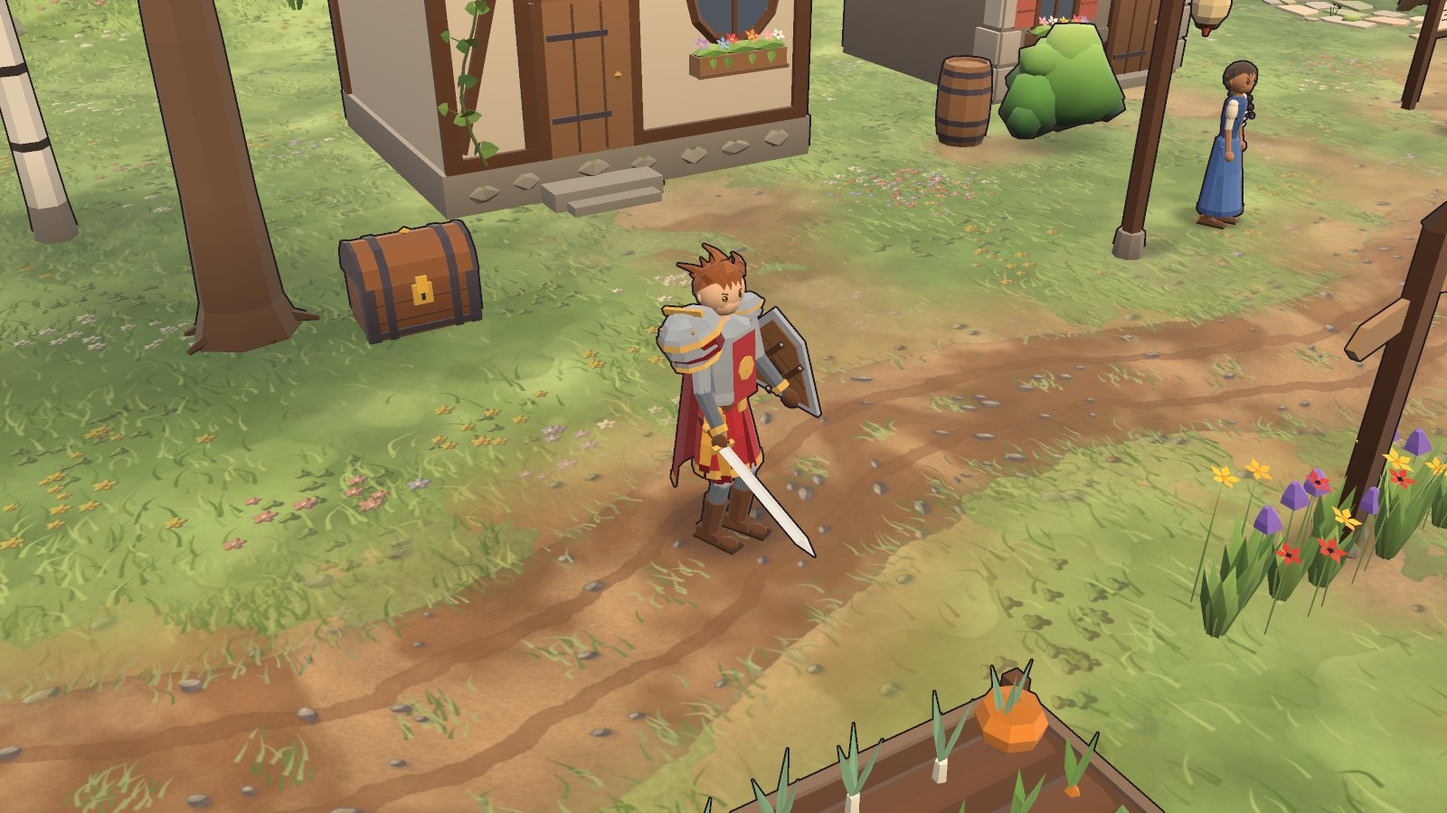
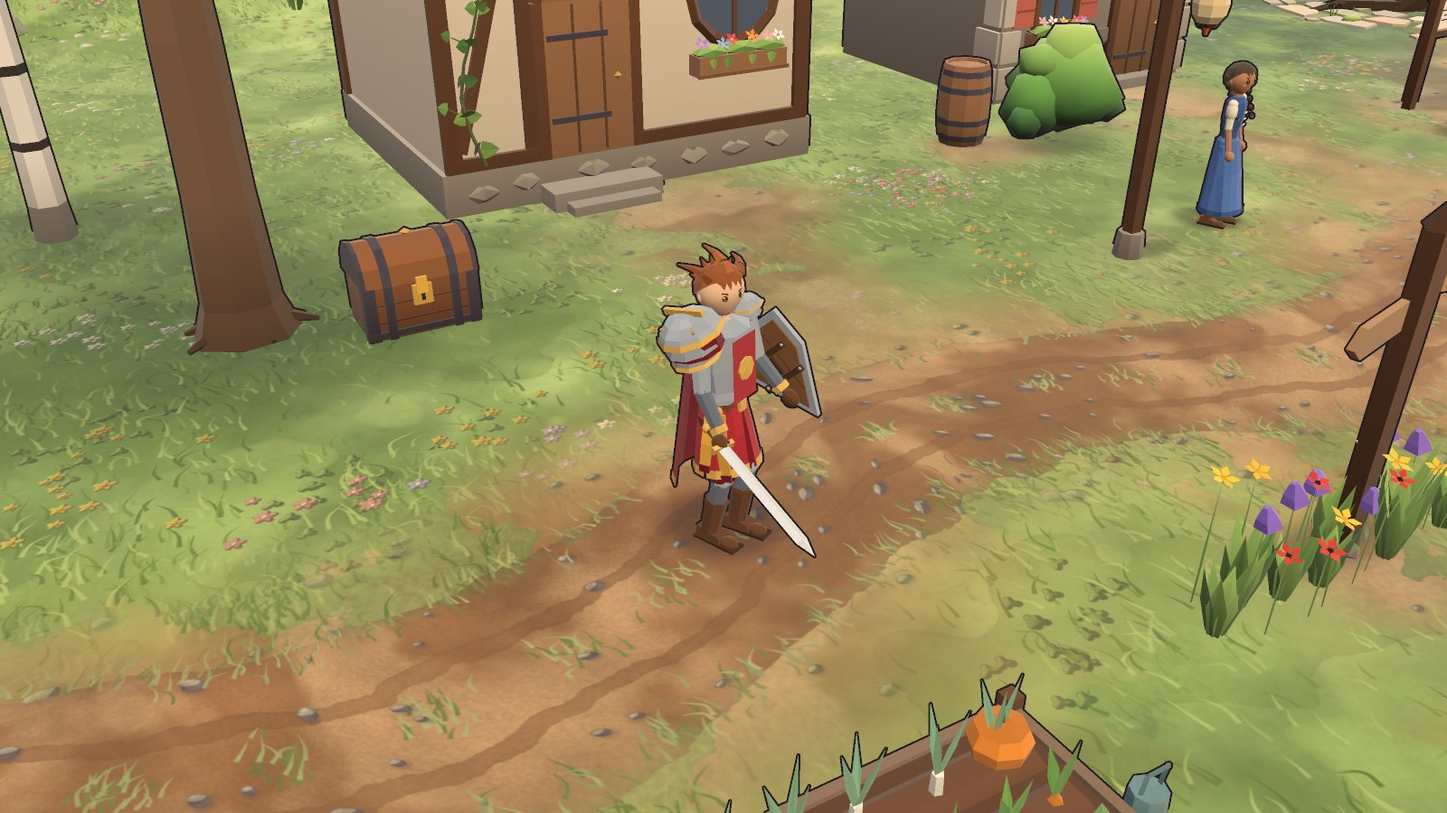
Lanternvale 3D: integrate review round 3 (lead wiring, preview tool sync, docs, re-rendered previews)
- Cherry-picked the four round-3 fixer commits (environment & lighting, props & map data, animation,
  unit models) in that order; no conflicts.
- Trainers wear their own looks: npcs.json sprites npc_trainer_warrior / _hunter / _mage / _priest for
  trainer_odo / fennel / quillon / wick (portrait stays portrait_trainer; datagen wn_npcs.py in step).
- Greymane draws his own model: creatures.json cr_greymane sprite cr_wolf_greymane, portrait
  cr_wolf_blighted (the 2D art the UI keeps showing; size left at 1.5, it sets the nav radius).
  HudCore.ArtFor draws a portrait key that is a unit sprite (not portrait_*) like a sprite, so his
  target frame shows the whole wolf as before instead of a centre crop.
- preview3d: PropSheet colliders for stone_wall (3.4 x 0.6) and veg_patch (3.6 x 1.8) match the map
  (0.00 m overhang); units groups gain `trainers` (generic + four class trainers) and cr_wolf_greymane
  in beasts; Program.cs usage and README document --view game|spin, --pose, --facing, --pitch and
  key#N / key@npcId; README's faithful list names _LV_Warmth, the golden-hour haze and SetLit parts.
- render_previews.sh adds lanternvale_golden (the spawn meadow at 18h).
- Docs: ThreeD.md (_LV_Warmth, golden hour, lamp pools, camphor canopy shade, Old Kusu's low limbs and
  lanterns and its triangle budget, camera-side pole/greatsword holds, action head pose, trainer and
  Greymane keys, dry-stone wall, rock crack), PresentationAPI.md (DayNight.Golden/Warmth/GoldenHaze,
[…]

Changed region(s): [[0.4688, 0.8089, 0.8125, 1.0], [0.8125, 0.0, 1.0, 0.1244]]

diff --git a/Lanternvale/Tools/datagen/world_content/wn_npcs.py b/Lanternvale/Tools/datagen/world_content/wn_npcs.py
@@ -41,14 +41,14 @@ NPCS = [
         vendor=V(I.VENDOR_WEAPONS + ["whetstone_garrow"])),
     npc("armorer_bess", "Bess Ironhand", "Armorer", "npc_smith", "dlg_armorer_bess",
         "If it fits, it protects. If it pinches, come back.", vendor=V(I.VENDOR_ARMOR)),
-    npc("trainer_odo", "Sir Odo Brightwater", "Warrior & Paladin Trainer", "npc_trainer", "dlg_trainer_odo",
-        "Elbows up! Shield higher! Ah — sorry. Habit.", trains=["Warrior", "Paladin"]),
-    npc("trainer_fennel", "Fennel Greythorn", "Hunter & Shaman Trainer", "npc_trainer", "dlg_trainer_fennel",
-        "Listen. The wind's saying something. Mostly 'it's windy'.", trains=["Hunter", "Shaman"]),
-    npc("trainer_quillon", "Magister Quillon Ashby", "Mage & Warlock Trainer", "npc_trainer", "dlg_trainer_quillon",
-        "Do not touch the floating books. They bite.", trains=["Mage", "Warlock"]),
-    npc("trainer_wick", "Brother Wick", "Priest & Rogue Trainer", "npc_trainer", "dlg_trainer_wick",
-        "Every light casts a shadow. I teach both. Tea?", trains=["Priest", "Rogue"]),
+    npc("trainer_odo", "Sir Odo Brightwater", "Warrior & Paladin Trainer", "npc_trainer_warrior", "dlg_trainer_odo",
+        "Elbows up! Shield higher! Ah — sorry. Habit.", trains=["Warrior", "Paladin"], portrait="portrait_trainer"),
+    npc("trainer_fennel", "Fennel Greythorn", "Hunter & Shaman Trainer", "npc_trainer_hunter", "dlg_trainer_fennel",
+        "Listen. The wind's saying something. Mostly 'it's windy'.", trains=["Hunter", "Shaman"], portrait="portrait_trainer"),
+    npc("trainer_quillon", "Magister Quillon Ashby", "Mage & Warlock Trainer", "npc_trainer_mage", "dlg_trainer_quillon",
+        "Do not touch the floating books. They bite.", trains=["Mage", "Warlock"], portrait="portrait_trainer"),
+    npc("trainer_wick", "Brother Wick", "Priest & Rogue Trainer", "npc_trainer_priest", "dlg_trainer_wick",
+        "Every light casts a shadow. I teach both. Tea?", trains=["Priest", "Rogue"], portrait="portrait_trainer"),
     npc("guard_holt", "Sergeant Holt", "Lanternvale Guard", "npc_guard", "dlg_guard_holt",
         "Stay on the path. The path likes you."),
     npc("shepherd_bram", "Bram", "Shepherd", "npc_villager_b", "dlg_shepherd_bram",

diff --git a/Lanternvale/Tools/preview3d/Program.cs b/Lanternvale/Tools/preview3d/Program.cs
@@ -2,6 +2,7 @@
 //
 //   props <out.png> [keys|all] [seed] [--views gqtfb] [--tile px] [--lit 0|1] [--open] [--stats]
 //   units <out.png> [keys|group|all] [--tile px] [--ss N] [--hour H] [--speed m/s]
+//                          [--view sheet|game|spin] [--pose idle|walk|wind|strike|shoot|cast] [--facing 1|-1] [--pitch deg]
 //   map <mapId> <out.png> [--hour H] [--yaw D] [--zoom Z] [--at x,y] [--size WxH] [--ss N] [--spawn id]
 //                          [--player key] [--flags f1,f2|*] [--no-units] [--no-halos] [--no-ink] [--gamma]
 using System;
@@ -49,8 +50,11 @@ namespace Lanternvale.Preview
   props <out.png> [key[,key@seed...]|all] [seed] [--views gqtfb] [--tile 380] [--lit 0|1] [--open] [--stats]
       contact sheet of prop models: g = game camera, q = 3/4, t = top (collider ellipse), f = front, b = back
   units <out.png> [key,key...|group|all] [--tile 240] [--ss 2] [--hour 12.5] [--speed 3.4]
+        [--view sheet|game|spin] [--pose idle|walk|wind|strike|shoot|cast] [--facing 1|-1] [--pitch deg]
       unit models posed by the game's animator: game camera, 3/4 idle, walk, attack wind-up/strike, shoot, cast;
-      groups: chars comps npcs foes beasts pets demons static (all = one page per group, <out>_<group>.png)
+      --view game: every column at the game camera (idle/walk facing right and left, actions facing --facing);
+      --view spin: one --pose at nine facings; a key may name a look variant (npc_child#2, npc_child@child_nell);
+      groups: chars comps npcs trainers foes beasts pets demons static (all = one page per group, <out>_<group>.png)
   map <mapId> <out.png> [--hour H] [--yaw D] [--zoom Z] [--at x,y] [--size 1600x900] [--ss 2] [--spawn id]
                         [--player char_warrior] [--flags f1,f2|*] [--no-units] [--no-halos] [--no-ink] [--gamma]
       the player's view of a map: look-at = the spawn (or --at), Zoom = CameraRig zoom (2.6 … 10.4, default 6.2),

diff --git a/Lanternvale/Tools/preview3d/UnitSheet.cs b/Lanternvale/Tools/preview3d/UnitSheet.cs
@@ -25,9 +25,10 @@ namespace Lanternvale.Preview
         {
             ("chars", new[] { "char_warrior", "char_hunter", "char_paladin", "char_mage", "char_priest", "char_rogue", "char_warlock", "char_shaman" }),
             ("comps", new[] { "comp_kael", "comp_lys", "comp_seren", "comp_rook", "comp_pip", "comp_torvan", "comp_aldric", "comp_morwen" }),
-            ("npcs", new[] { "npc_elder", "npc_innkeeper", "npc_merchant", "npc_smith", "npc_villager_a", "npc_villager_b", "npc_child", "npc_guard", "npc_trainer", "npc_spirit" }),
+            ("npcs", new[] { "npc_elder", "npc_innkeeper", "npc_merchant", "npc_smith", "npc_villager_a", "npc_villager_b", "npc_child", "npc_guard", "npc_spirit" }),
+            ("trainers", new[] { "npc_trainer", "npc_trainer_warrior", "npc_trainer_hunter", "npc_trainer_mage", "npc_trainer_priest" }),
             ("foes", new[] { "cr_bandit", "cr_bandit_archer", "cr_bandit_hexer", "cr_bandit_chief", "cr_mossling", "cr_mossling_shaman", "cr_hollow_spirit", "cr_hollow_wisp", "cr_hollow_treant" }),
-            ("beasts", new[] { "cr_wolf", "cr_wolf_blighted", "cr_boar", "cr_spider", "cr_hollow_warden", "sheep" }),
+            ("beasts", new[] { "cr_wolf", "cr_wolf_blighted", "cr_wolf_greymane", "cr_boar", "cr_spider", "cr_hollow_warden", "sheep" }),
             ("pets", new[] { "pet_wolf", "pet_boar", "pet_cat", "pet_bear", "pet_owl" }),
             ("demons", new[] { "demon_imp", "demon_voidwalker", "demon_succubus", "demon_infernal", "demon_felhunter" }),
             ("static", new[] { "totem_earth", "totem_fire", "totem_water", "totem_air", "cr_training_dummy" }),

diff --git a/Lanternvale/Assets/Lanternvale/Scripts/Game/UI/Hud/HudCore.cs b/Lanternvale/Assets/Lanternvale/Scripts/Game/UI/Hud/HudCore.cs
@@ -605,8 +605,14 @@ namespace Lanternvale.Game
             p = default;
             try
             {
+                // a creature may name another unit's sprite as its portrait (Greymane: cr_wolf_blighted, whose 3D
+                // model has no 2D art of its own): that is drawn like a sprite, only portrait_* keys are busts
                 if (!string.IsNullOrEmpty(portraitKey) && (ArtLibrary.HasRealTexture(portraitKey) || string.IsNullOrEmpty(spriteKey)))
-                    p = new PortraitArt { Tex = ArtLibrary.Texture(portraitKey), IsPortrait = true };
+                    p = new PortraitArt
+                    {
+                        Tex = ArtLibrary.Texture(portraitKey),
+                        IsPortrait = portraitKey.StartsWith("portrait_", StringComparison.Ordinal) || !ArtLibrary.HasRealTexture(portraitKey),
+                    };
                 else if (!string.IsNullOrEmpty(spriteKey))
                     p = new PortraitArt { Tex = ArtLibrary.Texture(spriteKey), IsPortrait = false };
                 else

diff --git a/Lanternvale/Tools/datagen/world_content/wn_creatures.py b/Lanternvale/Tools/datagen/world_content/wn_creatures.py
@@ -227,7 +227,7 @@ creature(id="cr_wolf_packmate", name="Greymane's Packmate", description="Answers
          xpMult=0, faction="Wildlife")
 creature(id="cr_greymane", name="Greymane",
          description="The pasture wolves' old alpha, silver-ruffed and huge. The grey has crept into his eyes.",
-         sprite="cr_wolf_blighted", type="Beast", family="Wolf", rank="Elite", levelMin=6, levelMax=6, levelOffset=1,
+         sprite="cr_wolf_greymane", portrait="cr_wolf_blighted", type="Beast", family="Wolf", rank="Elite", levelMin=6, levelMax=6, levelOffset=1,
          healthMult=1.2, damageMult=0.95, attackSpeed=2.0, moveSpeed=11, size=1.5, ai="Melee",
          abilities=[CA("cr_call_the_pack", 10, condition="selfHpBelow:50"), CA("cr_hollow_howl", 6, 50),
                     CA("cr_ravage", 5), CA("cr_bite", 3, 50)],

diff --git a/Lanternvale/Tools/preview3d/PropSheet.cs b/Lanternvale/Tools/preview3d/PropSheet.cs
@@ -26,7 +26,7 @@ static class PropSheet
         ["prop_hay"] = (1.2f, 0.7f), ["prop_signpost"] = (0.4f, 0.3f), ["prop_noticeboard"] = (1.6f, 0.5f),
         ["prop_bench"] = (1.4f, 0.4f), ["prop_campfire"] = (1.0f, 0.6f), ["prop_tent"] = (2.4f, 1.2f),
         ["prop_ruin_pillar"] = (1.1f, 0.6f), ["prop_spirit_statue"] = (0.8f, 0.5f), ["prop_blight_crystal"] = (1.2f, 0.7f),
-        ["prop_banner"] = (0.4f, 0.3f), ["prop_stone_wall"] = (3.2f, 0.5f), ["prop_veg_patch"] = (2.8f, 1.4f),
+        ["prop_banner"] = (0.4f, 0.3f), ["prop_stone_wall"] = (3.4f, 0.6f), ["prop_veg_patch"] = (3.6f, 1.8f),
         ["prop_washing_line"] = (3.4f, 0.3f),
     };
 

diff --git a/Lanternvale/Tools/artgen/keys.py b/Lanternvale/Tools/artgen/keys.py
@@ -44,6 +44,8 @@ def required_keys(artkeys_path=None, schema_path=None):
     artkeys_path = artkeys_path or os.path.join(DOCS, "ArtKeys.md")
     with open(artkeys_path, encoding="utf-8") as f:
         text = f.read()
+    # keys that only name a 3D model (UnitRecipes) have no 2D art to paint
+    text = text.split("## 3D-only model keys", 1)[0]
     ordered = []
     seen = set()
 

diff --git a/Lanternvale/Docs/ThreeD.md b/Lanternvale/Docs/ThreeD.md
@@ -57,6 +57,10 @@ belts/sashes/shoulder pieces, distinct class silhouettes and weapons), rendered 
   albedo drifts towards its luma × the tint (a cool blue-grey), while point lights (lamps, fire) light the full colour.
   `MapView.ApplyMood` sets it from `DayNight.NightGrade` / `DayNight.NightGradeTint` (0.38 at full night); MapView's
   cleanup resets it to zero.
+  **Warmth** (shader global `_LV_Warmth`, zero = off, the default): x = the golden-hour saturation lift of sunlit
+  colours (up to 0.12), y = how far lamplit colours lean to amber at night (up to 0.45), z = how much a lamp pool greys
+  out and dims the cool moon fill under it in deep night (up to 0.8; so the edge of a pool passes through warm grey,
+  never pink). `MapView.ApplyMood` sets it from `DayNight.Warmth`; MapView's cleanup resets it to zero.
 
   Add your own shaders next to them if you need one (same rules: `#include "LanternvaleCommon.cginc"`, no pipeline
   includes, no LightMode tag, `#pragma target 3.0`). Unity's `Sprites/Default` is fine for alpha-blended billboards.
@@ -92,8 +96,8 @@ exact ellipsoid normals and a canopy-wide vertex ramp, warm on top and cool teal
 reads better; saturated-but-soft palettes (warm creams, sage and moss greens, dusty
 blues, terracotta roofs, honey-gold lantern light); per-face `Jitter` 0.04–0.08; `AOStrength` ~0.3 on props; ink
 outline on characters, creatures and props (not on terrain, grass, decals, particles). Keep triangle counts sane:
-character ≤ 3k tris (the leader and companions up to ~3.8k), big building ≤ 3.2k, tree ≤ 1.5k (Old Kusu ≈ 3.4k plus
-its plaza), small prop ≤ 400, grass tuft ≤ 60.
+character ≤ 3k tris (the leader and companions up to ~3.8k), big building ≤ 3.2k, tree ≤ 1.5k (Old Kusu ≈ 5.1k plus
+its lanterns part ≈ 0.7k and its plaza ≈ 2.4k), small prop ≤ 400, grass tuft ≤ 60.
 
 ## 4. Ownership (who edits what) — never edit another builder's files
 
@@ -120,8 +124,11 @@ Keep every public member (see `Docs/PresentationAPI.md` §3), now in 3D:
 * `static UnitView Create(string spriteKey, float height, Color ringColor)` — spriteKey selects the model recipe:
   `char_<class>` (player classes), `comp_<name>` (companions: kael, lys, seren, rook, pip, torvan, aldric, morwen —
   see `Resources/Data/content/companions.json` for their classes/looks), `npc_*` (elder, innkeeper, merchant, smith,
-  villager_a/b, child, guard, trainer, spirit), creatures `cr_*` (wolf, wolf_blighted, boar, spider, mossling,
-  mossling_shaman, bandit, bandit_archer, bandit_hexer, bandit_chief, hollow_wisp, hollow_spirit, hollow_keeper, hollow_treant,
+  villager_a/b, child, guard, trainer, spirit; the four class trainers `npc_trainer_warrior` (= `_paladin`, Sir Odo the
+  old knight), `npc_trainer_hunter` (= `_shaman`, Fennel the ranger), `npc_trainer_mage` (= `_warlock`, Magister
+  Quillon), `npc_trainer_priest` (= `_rogue`, Brother Wick the friar)), creatures `cr_*` (wolf, wolf_blighted,
+  wolf_greymane (= `cr_greymane`, the elite alpha: charcoal coat, silver mane, glowing violet eyes and spine
+  crystals), boar, spider, mossling, mossling_shaman, bandit, bandit_archer, bandit_hexer, bandit_chief, hollow_wisp, hollow_spirit, hollow_keeper, hollow_treant,
   hollow_warden (≈4.5 m boss), training_dummy), pets `pet_*` (wolf, cat, boar, bear, owl), demons `demon_*` (imp,
   voidwalker, succubus, felhunter, infernal), totems `totem_*` (earth, fire, water, air). `height` > 0 scales the
   model to that height (creature `size`), ≤ 0 = the model's natural height. Unknown keys get a sensible generic model.
@@ -142,7 +149,14 @@ Keep every public member (see `Docs/PresentationAPI.md` §3), now in 3D:
   never a snap. **Static models** (totems, the training dummy: `UnitFacing.IsStatic`) are set down with their front
   towards the camera (`UnitFacing.StaticYaw`, 60° bias) and ignore `FaceTowards`. **Idle bipeds turn head and neck
   towards the camera** (up to 22°, tipped up 7°; never towards a camera behind them) through `UnitAnimInput.ViewYaw`
-  (= `UnitFacing.ViewYaw(unitYaw, cameraYaw)`); actions snap the head back.
+  (= `UnitFacing.ViewYaw(unitYaw, cameraYaw)`). In strike, shoot and cast the neck and head take back most of the
+  chest's bow (90 %) and twist (60 %), the chin lifts 5° and 55 % of the camera turn stays, so faces read in action
+  poses too (`ActionView`, `HeadLevel`, `HeadAim`, `ActionChinUp` in `UnitAnimator.Biped.cs`; headbutts excepted).
+  **Holds follow the camera side** (`ViewYaw`): a staff or spear whose holding hand is on the camera's side is held
+  back with the shaft leaning away from the camera, out beside the head (`PoleHold`), so it never splits the face;
+  a shouldered greatsword/great-axe sits low and back on the camera's side and points forward and down on the far
+  side. Children carry a one-hand stick up and forward like a toy sword. Wind-ups keep the weapon beside and behind
+  the right shoulder, clear of the head (two-handed hammers/axes lower with a wider grip: `MaceTwoKeys`).
 * **Walk cycle** (the user explicitly complained the old walking looked bad): proper procedural gait — legs swing
   with knee bend and foot lift, arms counter-swing, hips/shoulders counter-rotate, a two-bump-per-stride vertical bob,
   slight forward lean scaling with speed, cadence and stride matched to the actual movement speed (feet must not
@@ -212,7 +226,9 @@ What a map is in 3D (all from `MapDef`, see `Docs/WorldAPI.md` / `DataSchema.md`
   On paved maps (the shrine) path decals and the worn-path halo are skipped: the terrain paves a processional walkway
   through the trail decals' centres plus forecourts at gates, lanterns, statues and the arch, borders it with raked
   gravel (Terrain detail layer) and leaves moss beyond. Whisperwood gathers leaf litter under trees, stumps, logs and
-  along the trail through the same layer.
+  along the trail through the same layer. Old Kusu's crown, far above the game camera's frame, is told on the ground:
+  a broad flat-topped canopy shade broken by round sun flecks over its plaza (a dappled `MapTerrain` blot; the tree
+  itself adds no shade decal, keep it to one).
   **Foreground** (`fg_*`) → 3D
   ferns/grass/stones/flowers along the front edge (from PropModels).
 * **Chests** (closed/open), **transition markers** (`Waymarker`: a pair of lantern posts with an arrow sign at side
@@ -224,9 +240,16 @@ What a map is in 3D (all from `MapDef`, see `Docs/WorldAPI.md` / `DataSchema.md`
   (low warm at dawn/dusk, high soft white by day, cool moonlight at night), sky/ground ambient, fog colour = sky
   horizon, `NightGlow` up at night, lantern/lamp lights on at night (`nightOnly`). Golden hour and dusk keep the greens
   (warm sun, cool sky fill, neutral ground bounce); night is a deep blue fill with a crisp moon and the night grade
-  (§2). Warm-white/yellow lamp and window lights deepen to amber at night and reach 22 % further
-  (`DayNight.LampColor(authored, night)`, `LampRange(range, night)`); coloured lights (violet crystals, locked
-  waymarkers) keep their hue. Map `ambientColor × ambientIntensity` multiplies (its hue softened by 35 %).
+  (§2). **Golden hour** (`DayNight.Golden`, 0..1 = `GoldenAt(hour)`: full from late afternoon to sunset, 0.6 at
+  sunrise; 0 on fixed-time maps, which keep their authored sky's mood) boosts the honey-gold sun (+36 %), cuts the cool
+  fill (−23 %), raises the light's elevation floor from 14° to 22° so the meadow catches the low sun, warms the rim
+  (+60 %), lifts the saturation of sunlit colours (`_LV_Warmth.x`, §2) and hazes the distance warm
+  (`MapView.ApplyMood`: fog colour 30 % towards `DayNight.GoldenHaze`, fog starting 30 % nearer). Noon and night are
+  untouched. Warm-white/yellow lamp and window lights deepen to amber at night and reach 22 % further
+  (`DayNight.LampColor(authored, night)`, `LampRange(range, night)`); lamplit colours lean to amber and, in deep
+  night, a lamp pool greys out the moon's blue fill under it (`_LV_Warmth.yz` from `DayNight.Warmth`), so pools stay
+  amber on dirt, grass and stone; coloured lights (violet crystals, locked waymarkers) keep their hue. Map
+  `ambientColor × ambientIntensity` multiplies (its hue softened by 35 %).
   Fixed-time maps (shrine: dusk) keep their mood.
 * **Ambient particles** (`AmbientDef`: fireflies, pollen, leaves, mist, rain, embers) as camera-near 3D billboards
   (`Additive` for glowing ones, `Sprites/Default` for leaves/mist), pooled, around the camera's look-at point.
@@ -246,10 +269,14 @@ cuts or tints with the prop and does not count towards its bounds, occluder grid
 Keys to model (map counts in brackets): props — cottage_a/b/c, inn, smithy (forge glow), shop_stall (awning, goods),
 windmill (sails turn slowly), well, fence, lamp_post, spirit_lantern & spirit_lantern_dark (same model, `SetLit`;
 stone tōrō-style lantern with paper/glass glowing honey-gold), tree_oak/pine/birch/dead, **tree_great** (Old Kusu, a
-huge camphor tree ~25 m with a shimenawa rope and paper charms — the village landmark), bush_a/b, rock_large/small,
-stump, log, cart, barrel, crate, hay, signpost, noticeboard, bench, campfire (`SetLit`: flames + embers), tent,
+huge camphor tree ~25 m with a shimenawa rope and paper charms — the village landmark; since the game camera never
+frames the high crown, the tree is told low down: a twisting fluted trunk with buttress flare, burls, ivy and a shrine
+plaque, knuckled and surface roots over the paving, and two low limbs from ≈ 3.4 m carrying leaves, a second sacred
+rope and four paper lanterns — their own part, lit at night through `SetLit`), bush_a/b, rock_large/small
+(rock_large's crack is cast onto its own surface: `PropKit.BlobRayHit` / `BlobPoint`), stump, log, cart, barrel, crate, hay, signpost, noticeboard, bench, campfire (`SetLit`: flames + embers), tent,
 mushrooms, ruin_pillar, ruin_arch, shrine_gate (torii-like), spirit_statue (fox/kitsune), blight_crystal (violet
-emissive crystals), banner (cloth sways), bridge, stone_wall (low mossy rubble wall), veg_patch (vegetable bed),
+emissive crystals), banner (cloth sways), bridge, stone_wall (dry-stone wall, 2.9 m: two courses of warm sandstone
+and grey stones under a flat cap course, small moss tufts), veg_patch (vegetable bed),
 washing_line (laundry sways; all three in `PropGarden.cs`); chests `prop_chest` (+ `_open`); foreground fg_ferns,
 fg_grass_a/b, fg_stones_a/b, fg_flowers_a/b. Sizes: use believable real-world sizes (person = 1.75 m; cottage ridge ≈ 6 m, inn ≈ 8 m,
 windmill ≈ 11 m, oak ≈ 8 m, pine ≈ 11 m), but the **solid footprint must fit the prop's nav collider**

diff --git a/Lanternvale/Docs/ArtKeys.md b/Lanternvale/Docs/ArtKeys.md
@@ -124,12 +124,16 @@ e.g. `portrait_warrior`, `portrait_kael`, `portrait_elder`.
 NPCs: `npc_elder`, `npc_innkeeper`, `npc_merchant`, `npc_smith`, `npc_villager_a`, `npc_villager_b`,
 `npc_child`, `npc_guard`, `npc_trainer` (generic robed trainer), `npc_spirit` (friendly forest spirit, kodama-like).
 
+The four class trainers have their own 3D models (see "3D-only model keys" at the end); their 2D portrait stays
+`portrait_trainer`.
+
 ## Creatures (category Creature)
 
 The heights below are the `size` values (whole-image height in metres; see `height` above) of the
 creature entries with the same id in `creatures.json`. They, not the manifest `height`, set how tall these
-sprites are drawn as units. Entries that share a sprite can differ (`cr_greymane` draws `cr_wolf_blighted`
-at 1.5 m, `cr_wolf_packmate` draws `cr_wolf` at 1.0 m).
+sprites are drawn as units. Entries that share a sprite can differ (the creature *cr_wolf_packmate* draws
+`cr_wolf` at 1.0 m). The creature *cr_greymane* has its own 3D model (see "3D-only model keys" at the end), drawn at
+1.5 m; its portrait key is `cr_wolf_blighted`, the 2D art the UI shows for it.
 
 | key | description | height |
 |---|---|---|
@@ -168,3 +172,23 @@ school-coloured frame. Class crests: `crest_<class>` (warrior, hunter, …).
 ## UI (category UI)
 
 `ui_parchment` (tileable warm paper texture 512×512), `ui_vignette`, `logo_lanternvale` (title logo).
+
+## 3D-only model keys (no 2D art)
+
+Sprite keys in the data that only name a 3D model (`UnitRecipes`, see `Docs/ThreeD.md` §5): they have no entry in
+the manifest and no painter, so the UI shows the portrait key instead. `Tools/artgen` stops reading this file at this
+heading; the content checks (`Tools/datagen/world_content/wn_check.py`) accept them as sprite keys.
+
+| key | model | used by |
+|---|---|---|
+| `npc_trainer_warrior` | Sir Odo: an old knight in plate and a crimson tabard, a grand handlebar moustache, sword in hand, kite shield on his back (also `npc_trainer_paladin`) | trainer_odo |
+| `npc_trainer_hunter` | Fennel: a green-clad ranger with a feathered cap, a braided beard, a fur collar, bow and quiver (also `npc_trainer_shaman`) | trainer_fennel |
+| `npc_trainer_mage` | Magister Quillon: a tall scholar in starry indigo with a tall bent hat, spectacles, a long white beard and an orb staff (also `npc_trainer_warlock`) | trainer_quillon |
+| `npc_trainer_priest` | Brother Wick: a round, tonsured friar in undyed wool with a gold stole, a rosary and a lit lantern (also `npc_trainer_rogue`) | trainer_wick |
+| `cr_hollow_keeper` | Keeper Ishiro, hollowed: the Old Shrine's last keeper (portrait key `cr_hollow_spirit`) | cr_hollow_keeper, keeper_ishiro |
+| `cr_wolf_greymane` | Greymane, the elite alpha: bigger and heavier, charcoal coat, shaggy silver mane, glowing violet eyes, scars, torn ear, big glowing spine crystals (also the creature id `cr_greymane`) | cr_greymane |
+
+All four trainers share the trainers' gold sash with a lantern medallion.
+
+3D-only props (`PropModels`, `World/Props/PropGarden.cs`; the village garden by the cottages): `prop_stone_wall`
+(dry-stone wall), `prop_veg_patch` (vegetable bed with a watering can), `prop_washing_line` (laundry on a line, sways).

diff --git a/Lanternvale/Docs/ArtPrompts.md b/Lanternvale/Docs/ArtPrompts.md
@@ -235,6 +235,10 @@ Same template, NPCs use a softer, simpler costume (`<CHAR>`, less armour, fewer 
 | `npc_child` | small child (1.2 m), messy brown hair, green tunic with a cream collar, shorts, little boots, holding a tiny glowing paper lantern on a stick |
 | `npc_guard` | village guard with a kettle helmet, chainmail, teal and cream tabard, steel pauldrons, round teal-and-cream shield, spear |
 | `npc_trainer` | generic class trainer in a long dusty-blue robe with a gold sash, plum stole, hood down, short grey beard, holding a book |
+| `npc_trainer_warrior` | Sir Odo, an old knight trainer: plate armour and a crimson tabard, a grand grey handlebar moustache, sword in hand and a kite shield on his back, gold sash with a lantern medallion (also `npc_trainer_paladin`) |
+| `npc_trainer_hunter` | Fennel, a green-clad ranger trainer: soft feathered hunter's cap, a long braided beard with a gold bead, fur collar, bow and quiver, gold sash with a lantern medallion (also `npc_trainer_shaman`) |
+| `npc_trainer_mage` | Magister Quillon, a tall scholar trainer: starry indigo robe with a short plum shoulder cape, tall bent hat with a gold band, spectacles, long white beard, orb staff, a little grimoire at the belt, gold sash with a lantern medallion (also `npc_trainer_warlock`) |
+| `npc_trainer_priest` | Brother Wick, a round tonsured friar trainer: undyed wool habit with a rope belt and a plum-lined cowl, gold stole with a lantern medallion, rosary, a lit lantern in hand (also `npc_trainer_rogue`) |
 | `npc_spirit` | friendly forest spirit (kodama-like), small (0.9 m) pale white-green body, round head with three dark hollow dots for eyes and mouth, a sprout on its head, soft glow — original design, cute and quiet |
 
 ### 4.4 Portraits (`portrait_<suffix>` for every char_/comp_/npc_)
@@ -256,6 +260,7 @@ Quadrupeds are drawn **side 3/4 view facing right**. Template:
 |---|---|---|
 | `cr_wolf` | grey wolf with a cream chest and muzzle, darker saddle, amber eyes, bared fangs (1.1 m) | 2:1 |
 | `cr_wolf_blighted` | wolf corrupted by the Hollow: grey-violet fur darkening toward the legs, glowing violet vein cracks, small violet crystals on the back, glowing violet eyes (1.2 m) | 2:1 |
+| `cr_wolf_greymane` | Greymane, the pasture pack's old alpha touched by the Hollow: huge heavy wolf with a charcoal coat, a shaggy silver mane ruff, glowing violet eyes, scars and a torn ear, large glowing violet crystals along the spine (1.5 m) | 2:1 |
 | `cr_boar` | bristly brown boar with a spiky dark mane, big tusks, small eyes (1.0 m) | 2:1 |
 | `cr_spider` | big forest spider with a patterned abdomen with moss on it, banded legs, cluster of red eyes (0.9 m) | 2:1 |
 | `cr_mossling` | small mischievous round moss creature with big shiny eyes, toothy grin, stubby arms and feet, wearing a big leaf as a hat (0.9 m) | 1:1 |

diff --git a/Lanternvale/Tools/preview3d/README.md b/Lanternvale/Tools/preview3d/README.md
@@ -56,9 +56,21 @@ Each unit stands beside a 1.75 m slate reference figure on a 1 m checker. Poses 
 `UnitAnimator` at 60 fps (`Scene/UnitPoser.cs` replays UnitView's Animate/ApplyBodyTransform/UpdateLook/
 UpdateGround). The rigidly skinned mesh is skinned on the CPU: each vertex follows bone.localToWorld × bindpose.
 
-Groups are `chars comps npcs foes beasts pets demons static`. `all` writes `<out>_<group>.png`.
+Groups are `chars comps npcs trainers foes beasts pets demons static`. `all` writes `<out>_<group>.png`.
+
+| option | meaning |
+|---|---|
+| `--view sheet` | the 7 columns above (default). |
+| `--view game` | every column at the game camera: idle and walk facing right and left (`SetFacing(±1)`), then wind-up, strike, shoot and cast facing right (`--facing -1`: left). Use it to check faces and weapon holds in the action poses. |
+| `--view spin --pose P` | one pose (`idle walk wind strike shoot cast`) at nine facings relative to the camera, from the game camera's pitch (or `--pitch deg`): in combat a unit faces its target, any way. |
+| `--facing 1\|-1` | the facing of the action columns in `--view game`. |
+| `--pitch deg` | the camera pitch of `--view spin`. |
+| `key#N`, `key@npcId` | a look variation: `npc_child#2`, or `npc_child@child_nell` for the one that NPC id gets in the game (UnitModels.StableVariant). |
 
 Other options are `--tile px`, `--ss N`, `--hour H` and `--speed m/s`.
+
+The animator reads the camera yaw (`UnitAnimInput.ViewYaw`): staff and spear holds lean away from the camera on the
+holding hand's side, so a sheet shows the hold the game shows from the same camera.
 
 ### `props <out.png> [keys|all]`
 
@@ -84,6 +96,10 @@ anchors (magenta) and a 1.75 m person.
 - Terrain, backdrop and sky come from the real classes.
 - Lighting is DayNight.ApplyTo → SceneLighting (the 16 strongest point lights near the focus), with the night grade
   (`_LV_Grade` from DayNight.NightGrade) and amber, wider lamplight at night (DayNight.LampColor / LampRange).
+- Warmth (`_LV_Warmth` from DayNight.Warmth: x = golden-hour saturation lift of sunlit colours, y = lamplit colours
+  leaning to amber, z = a lamp pool greying out the moon fill under it) and the golden-hour haze (fog towards
+  DayNight.GoldenHaze by DayNight.Golden, fog starting nearer), as MapView.ApplyMood sets them.
+- Lit parts swap at night through the props' `SetLit` (lamps, windows, campfires, Old Kusu's paper lanterns).
 - LV_Shade: wrapped sun, hemisphere ambient, point lights, rim, emission, fog.
 - Linear colour space.
 - Dithered `_Fade` and `_Cut0`…`_Cut3` (LV_CutCoverage: LowPoly keeps surfaces behind the cut's centre, the ink hull

diff --git a/Lanternvale/Docs/PresentationAPI.md b/Lanternvale/Docs/PresentationAPI.md
@@ -15,7 +15,8 @@ Unity layer under `Assets/Lanternvale/Scripts/Game/{World,Units,Fx,Audio,Renderi
 >   `UnitFacing.Bias` 35° towards the camera for a 3/4 view; re-applied when the camera turns, see
 >   `UnitFacing.SideYaw`); `FaceTowards` turns to any direction. Static models (totems, the dummy) are set down facing
 >   the camera (`UnitFacing.StaticYaw`) and ignore facing requests; idle bipeds turn their heads towards the camera
->   (`UnitAnimInput.ViewYaw`). Bow users have string and arrow bones (`BB.StringA/StringB/ArrowR`, `BB.Count` 31); the
+>   (`UnitAnimInput.ViewYaw`), action poses keep the face up and partly turned to it, and staff, spear and greatsword
+>   holds lean away from the camera on its side so a weapon never crosses the face. Bow users have string and arrow bones (`BB.StringA/StringB/ArrowR`, `BB.Count` 31); the
 >   blob shadow's parameters come from `UnitShadow.Blob`.
 > * Occluding props no longer fade as a whole: they open soft round cut-outs around hidden units, the hovered object,
 >   the cursor's ground point and the camera's focus (`MapView.OccluderCutOuts`, default true; ThreeD.md §6). `UnitView.SetVariant(int)` / `Variant` give generic villagers and children a stable look per NPC.
@@ -121,7 +122,11 @@ Phases: dawn [5,8) peach/lavender, day [8,17.5) warm white, dusk [17.5,20.5) ros
 Map `ambientColor × ambientIntensity` multiplies the light.
 3D additions: `dn.NightGrade` / `DayNight.NightGradeTint` (the `_LV_Grade` night grade MapView pushes),
 `DayNight.LampColor(authored, night)` (warm-white/yellow lamps and windows deepen to amber at night; coloured lights
-keep their hue) and `DayNight.LampRange(range, night)` (+22 % reach at full night).
+keep their hue) and `DayNight.LampRange(range, night)` (+22 % reach at full night). Golden hour:
+`dn.Golden` (0..1, `DayNight.GoldenAt(hour)`: full from late afternoon to sunset, a little at sunrise; 0 on fixed-time
+maps) strengthens the warm sun, lowers the cool fill and hazes the distance (`DayNight.GoldenHaze`, MapView's fog);
+`dn.Warmth` is the `_LV_Warmth` shader global MapView pushes (x golden-hour saturation of sunlit colours, y lamplit
+colours leaning to amber at night, z a lamp pool greying out the moon fill; zero by day).
 
 ## 3. UnitView
 
